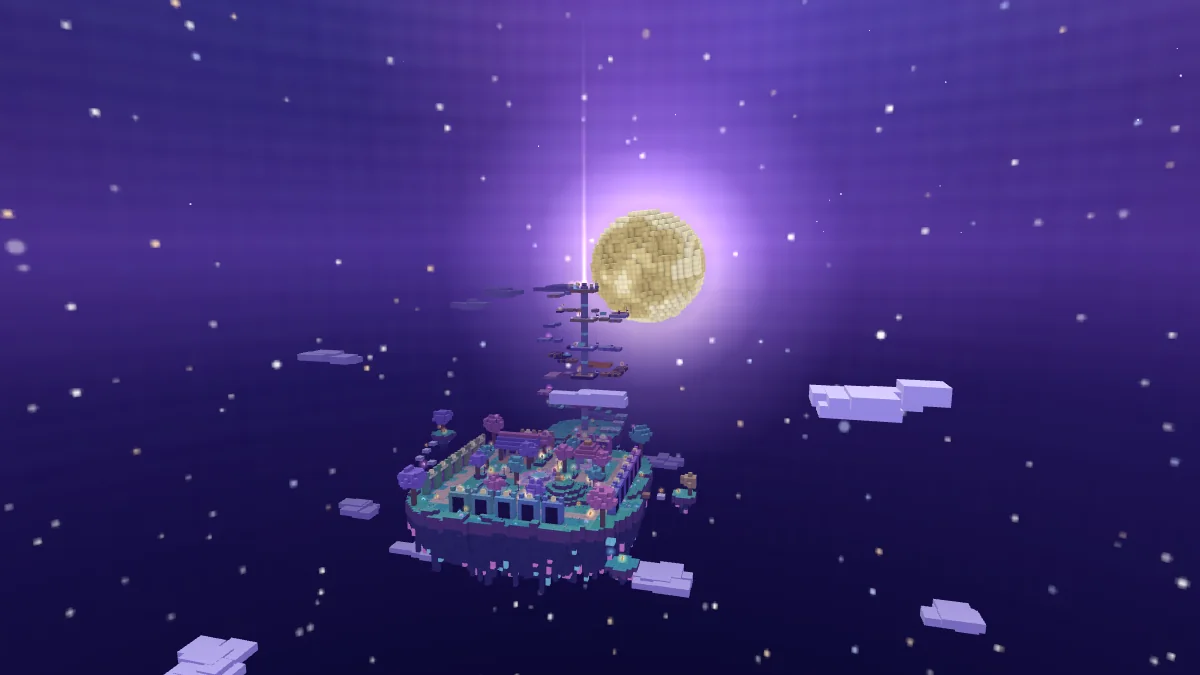
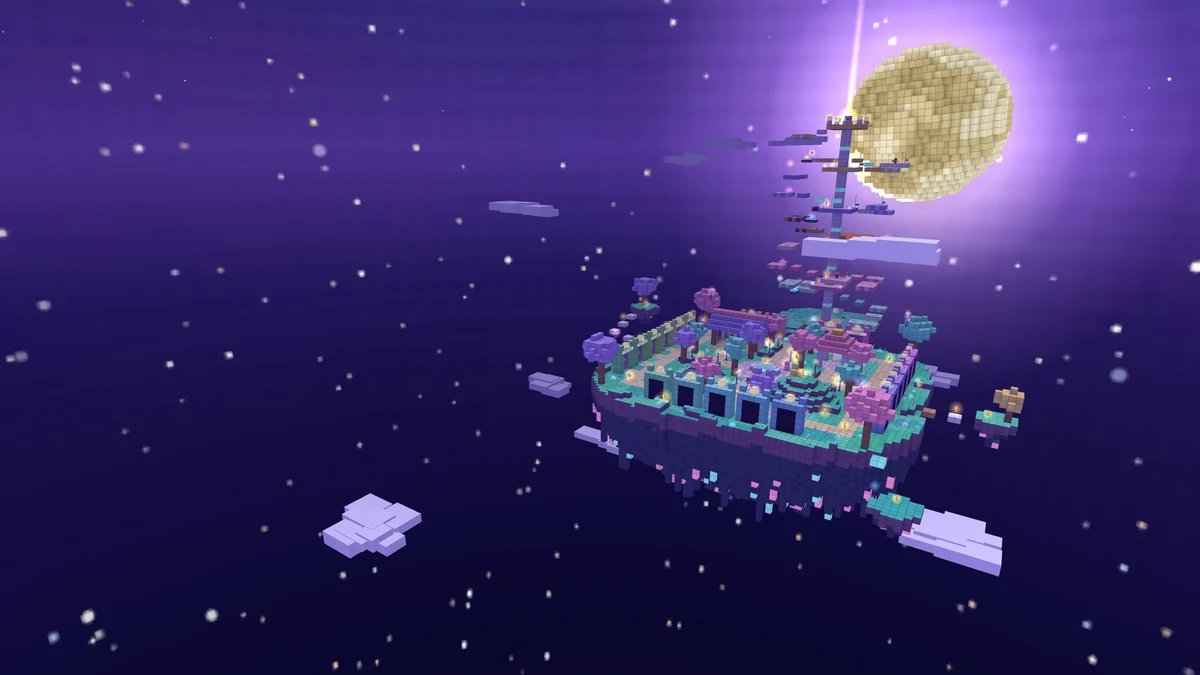
Мой космос: index.html, assets/mir/planeta.webp

diff --git a/index.html b/index.html
@@ -188,6 +188,16 @@ svg.i{width:1em;height:1em;display:block;flex:none;fill:none;stroke:currentColor
 .acts button:active{transform:scale(.955);background:var(--glass-2)}
 .act-i{width:48px;height:48px;border-radius:50%;display:grid;place-items:center;font-size:22px;color:var(--gold);border:1px solid var(--line-2);background:radial-gradient(circle at 30% 24%,rgba(var(--gold-rgb),.24),rgba(var(--gold-rgb),0) 72%)}
 .acts b{font:500 12.5px/1.22 var(--sans);letter-spacing:.02em;color:var(--ink)}
+/* ───────── вход в «Мою планету» ───────── */
+.mir{position:relative;display:block;margin:12px 0 0;border-radius:28px;overflow:hidden;aspect-ratio:16/9;background:var(--ph-bg);color:var(--ink);text-decoration:none;box-shadow:0 18px 44px -18px rgba(0,0,0,.8);transition:transform .25s var(--ease)}
+.mir:active{transform:scale(.98)}
+.mir img{position:absolute;inset:0;width:100%;height:100%;object-fit:cover;display:block}
+.mir::after{content:"";position:absolute;inset:0;border-radius:inherit;pointer-events:none;background:linear-gradient(205deg,rgba(6,5,26,0) 34%,rgba(6,5,26,.9));box-shadow:inset 0 0 0 1px rgba(var(--gold-rgb),.34)}
+.mir-t{position:absolute;z-index:1;left:20px;right:78px;bottom:16px;display:block}
+.mir-t i,.mir-t b,.mir-t em{display:block}
+.mir-t b{margin-top:6px;font:600 31px/1 var(--serif);letter-spacing:-.01em}
+.mir-t em{margin-top:7px;font:normal 400 13.5px/1.3 var(--sans);color:var(--ink-2)}
+.mir-go{position:absolute;z-index:1;right:16px;bottom:16px;width:46px;height:46px;border-radius:50%;display:grid;place-items:center;font-size:21px;color:var(--on-gold);background:linear-gradient(135deg,#fff,var(--gold) 40%,var(--gold-2));box-shadow:0 10px 26px -8px rgba(var(--gold-rgb),.7)}
 
 /* ───────── разделы главной, ленты ───────── */
 .sec{margin:46px 0 0}
@@ -571,6 +581,13 @@ svg.i{width:1em;height:1em;display:block;flex:none;fill:none;stroke:currentColor
         <button type="button" id="aCalm"><span class="act-i"><svg class="i" viewBox="0 0 24 24"><use href="#i-calm"/></svg></span><b>Минута<br>для себя</b></button>
       </nav>
 
+      <!-- вход в «Мою планету» — мир из кубиков (страница mir.html; её части — site/mir_src, сборка site/mir_make.py) -->
+      <a class="mir rise" id="mirCard" href="mir.html" style="--i:8" aria-label="Моя планета: мир из кубиков">
+        <img src="assets/mir/planeta.webp" alt="" width="1200" height="675" decoding="async">
+        <span class="mir-t"><i class="eyebrow">новый мир</i><b>Моя планета</b><em>остров из кубиков, башня до Луны и мои фото</em></span>
+        <span class="mir-go"><svg class="i" viewBox="0 0 24 24" aria-hidden="true"><use href="#i-fwd"/></svg></span>
+      </a>
+
       <div id="todayBox"></div>
 
       <section class="sec" id="favSec">
@@ -675,7 +692,7 @@ const frame = () => new Promise(r => requestAnimationFrame(() => r()));
 const clamp = (v, a, b) => v < a ? a : v > b ? b : v;
 const RM = matchMedia("(prefers-reduced-motion: reduce)").matches;
 const TOUCH = matchMedia("(hover: none)").matches;
-const BUILD = "20261112-0839";
+const BUILD = "20261112-0950";
 
 /* память устройства: не падает в приватном режиме и при переполнении */
 const LS = {
